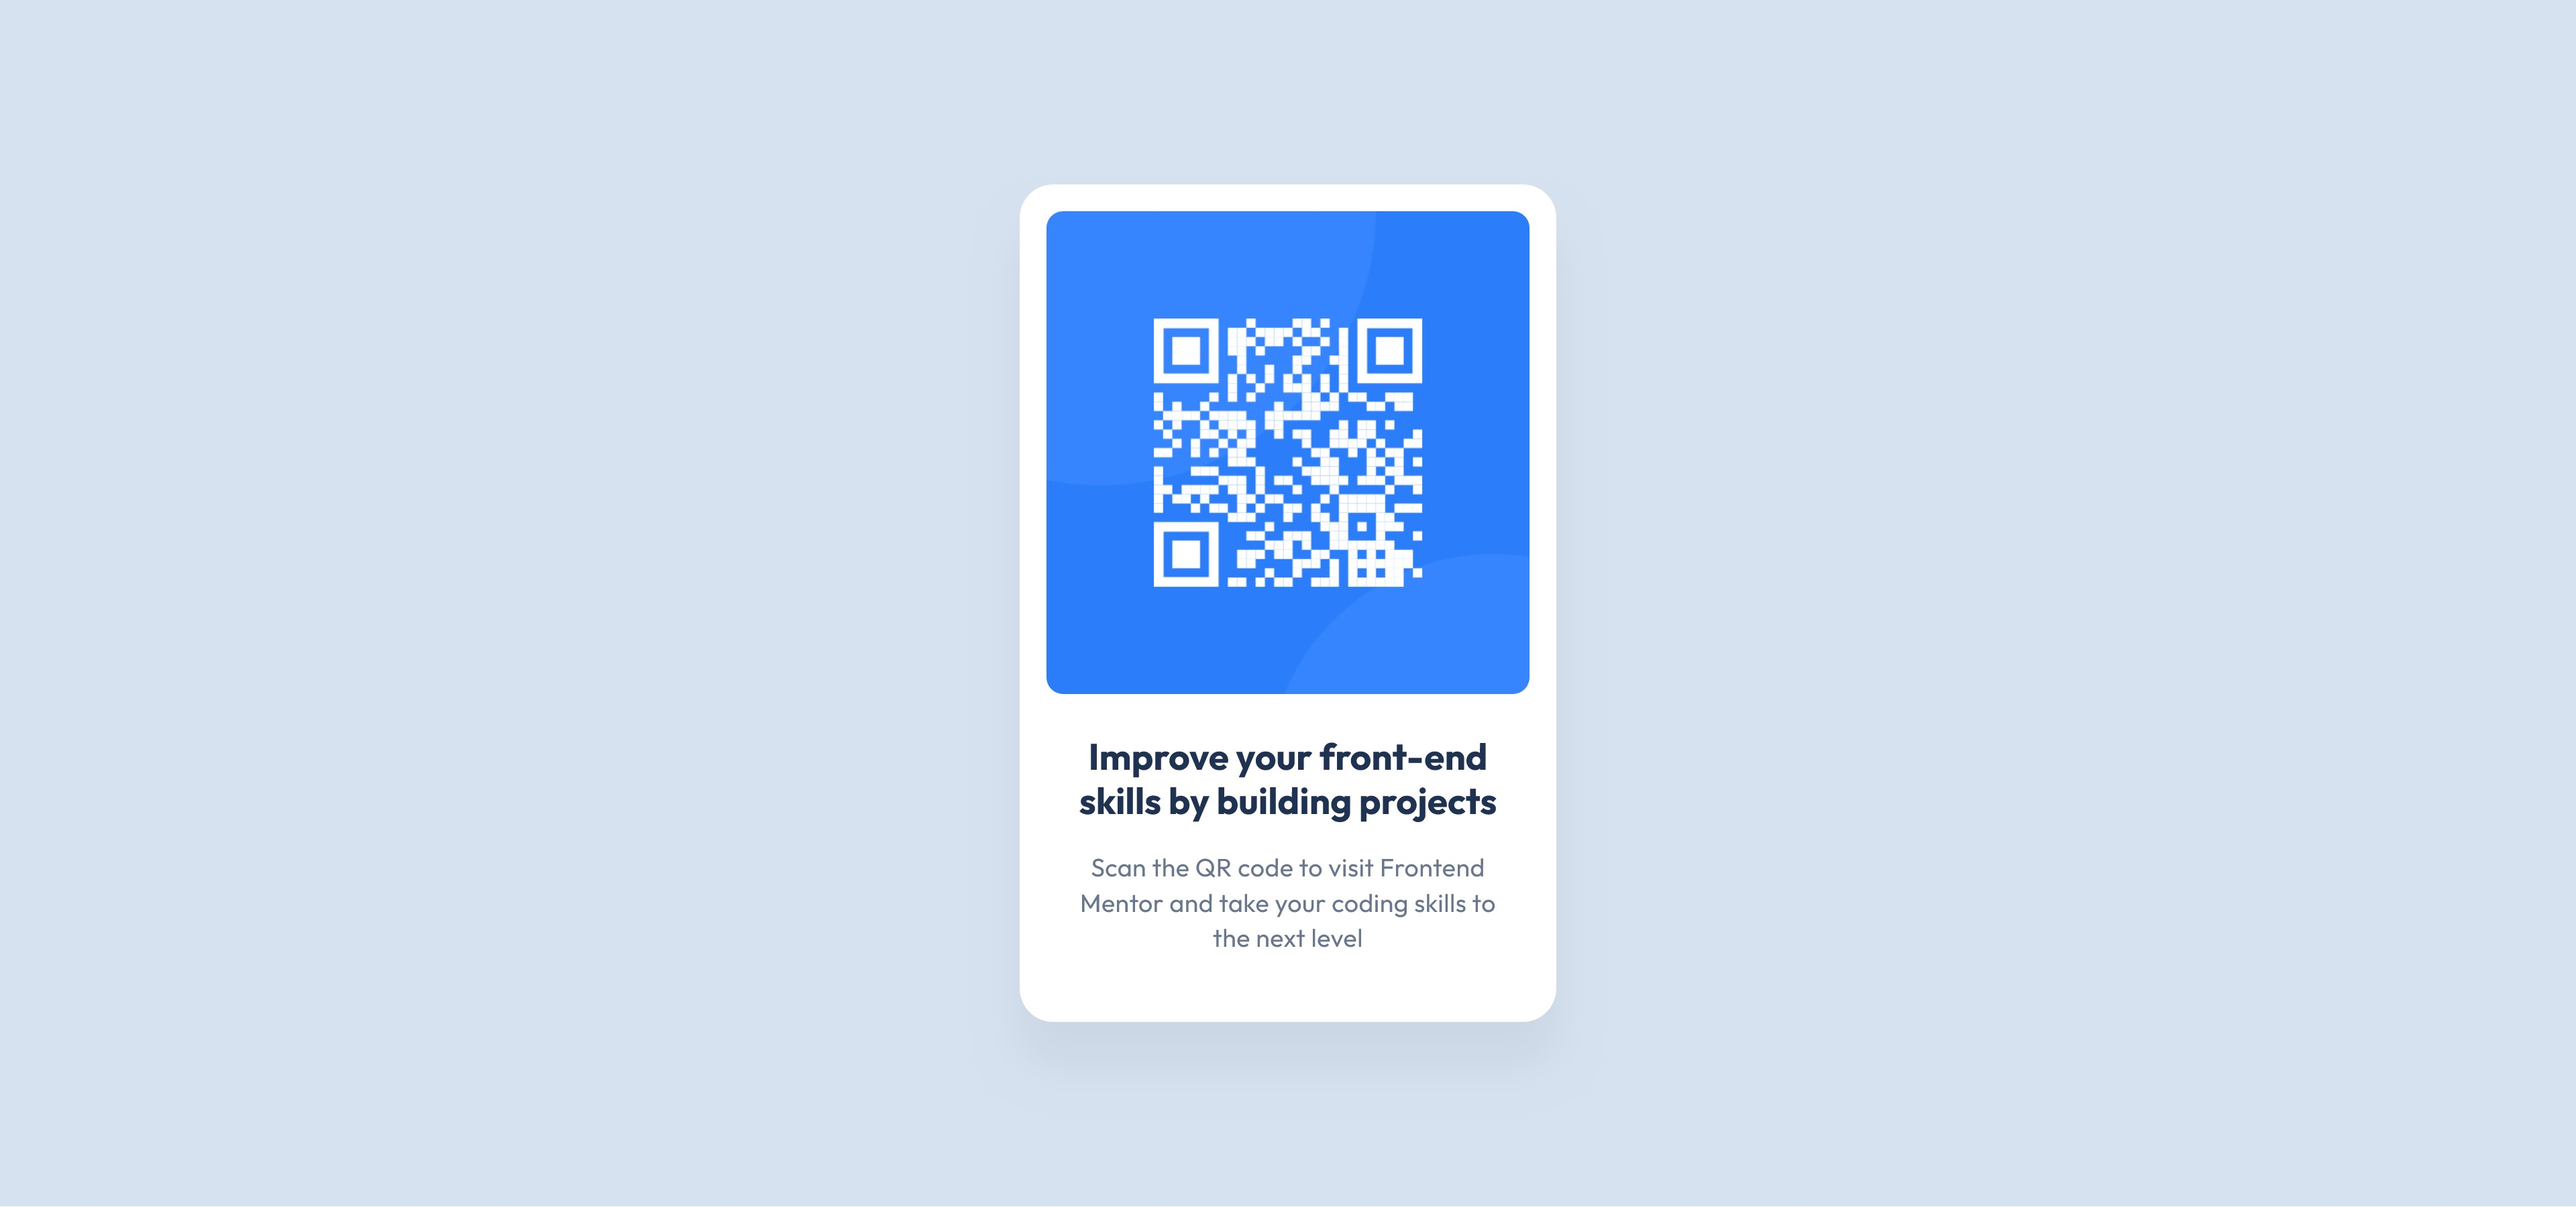
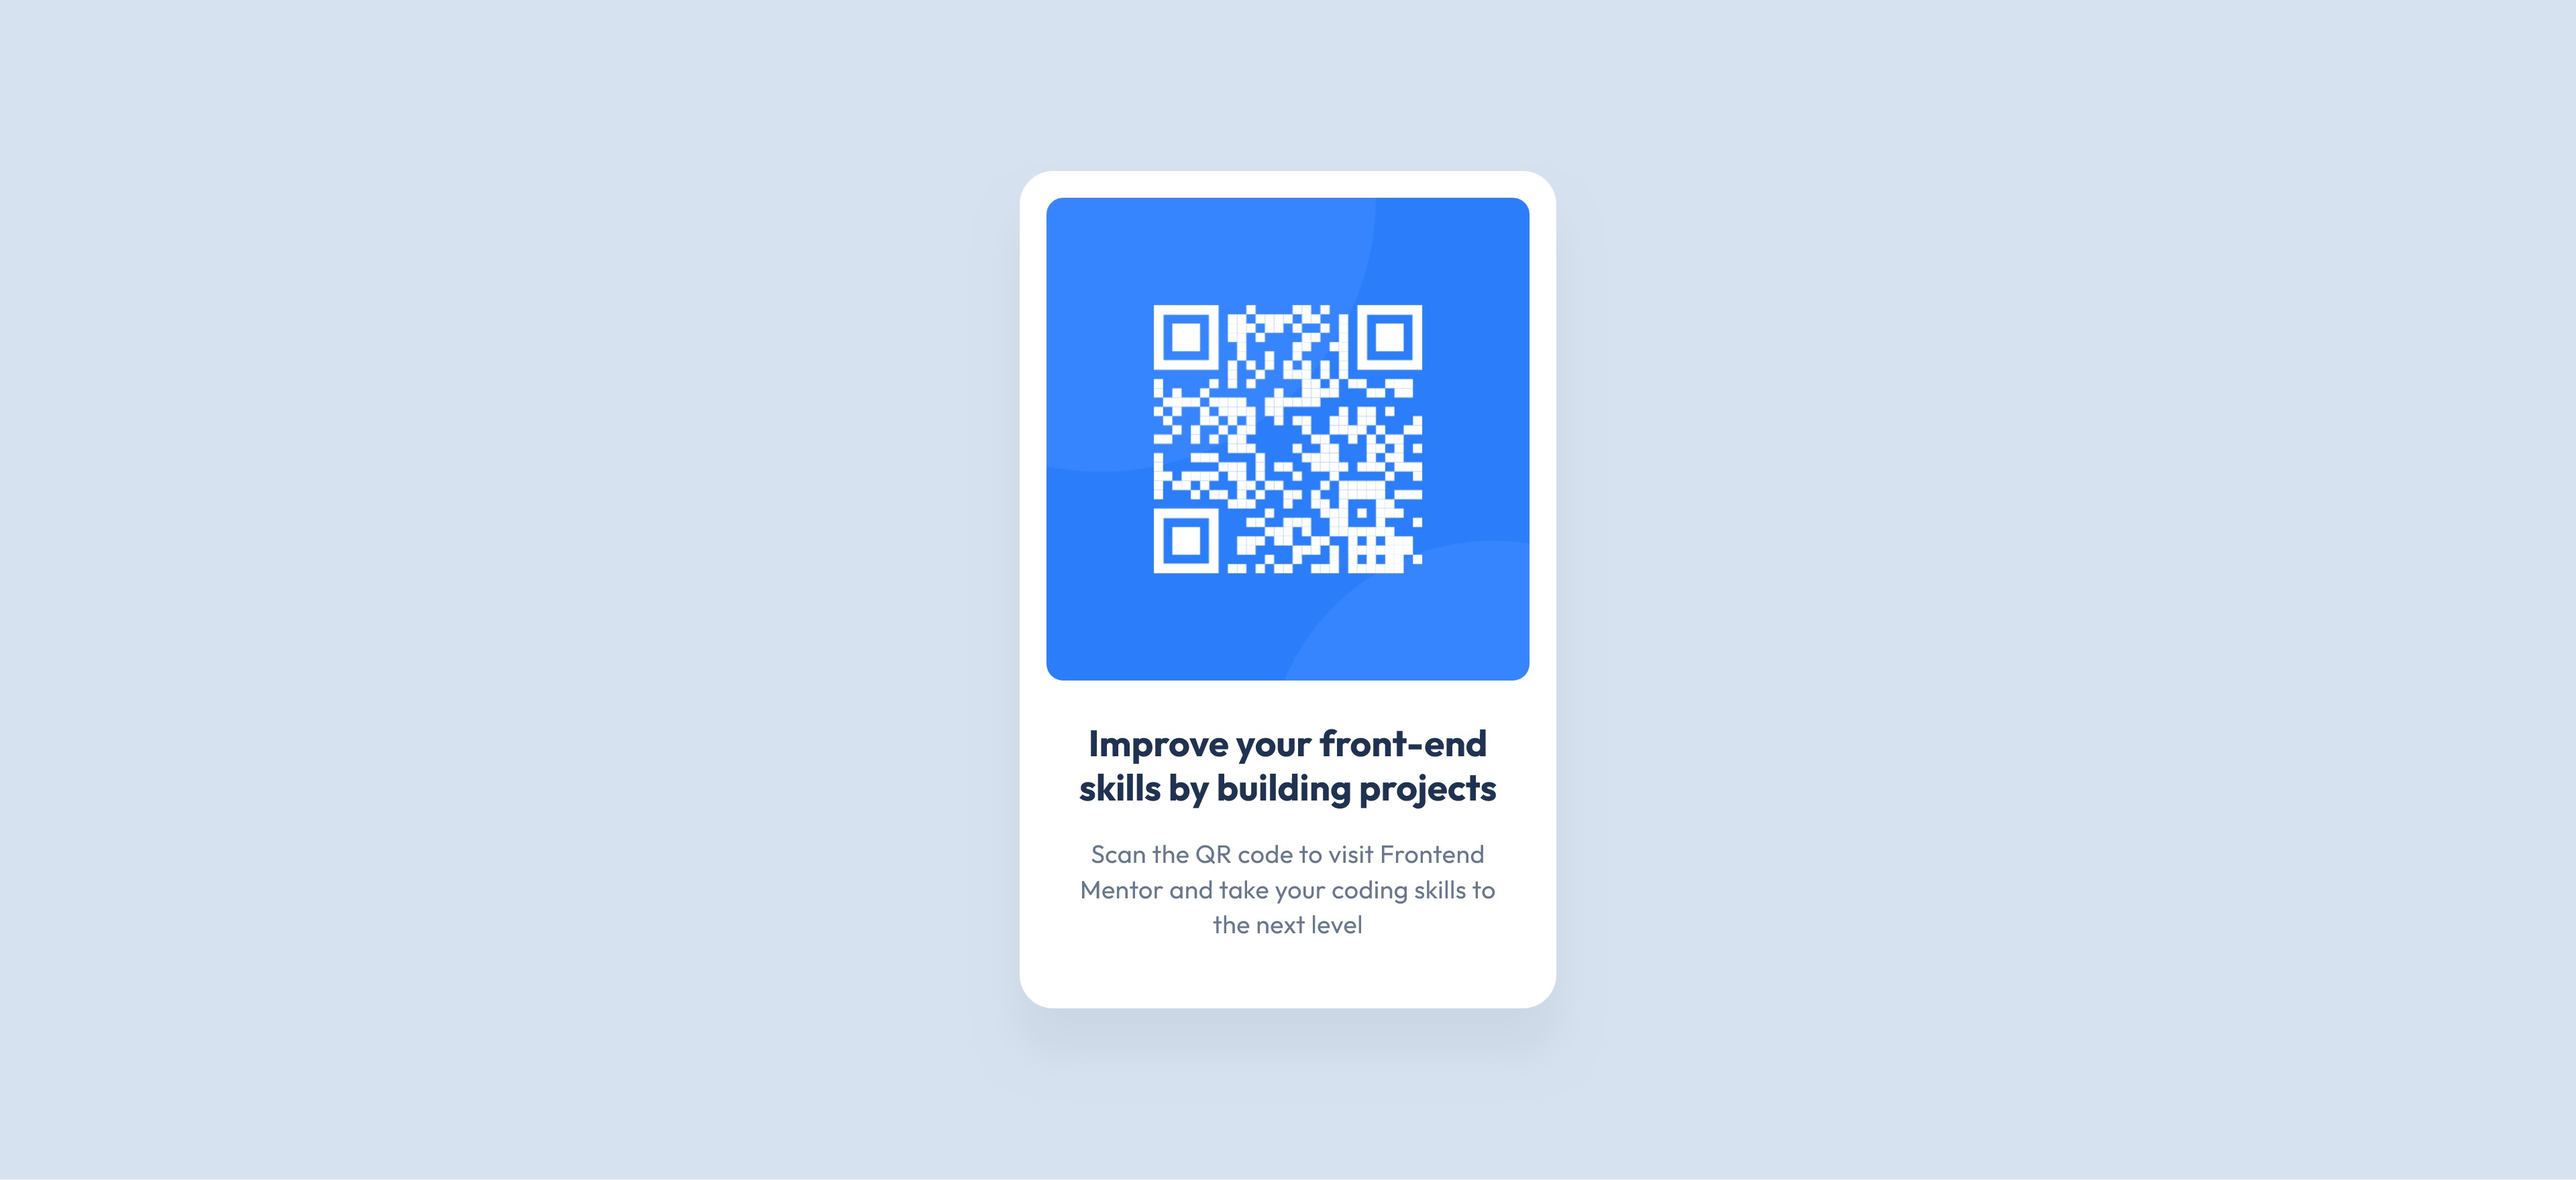
Initial commit

diff --git a/assets/styles/style.css b/assets/styles/style.css
@@ -1,3 +1,11 @@
+/* RESET */
+
+*{
+    box-sizing: border-box;
+    margin: 0;
+    text-align: center;
+}
+
 /* COLORS */
 
 :root{
@@ -26,7 +34,6 @@ p{
     letter-spacing: 0.2px;
     color: var(--Slate_500);
     font-size: 15px;
-    margin: 0;
 }
 
 body{
@@ -45,19 +52,21 @@ article{
     box-shadow: 0 25px 25px 0 rgba(0, 0, 0, 4.77%);
 }
 
-figure{
-    margin: 16px 16px 24px 16px;
-
-}
-
 img{
     display: block;
     max-width: 100%;
     border-radius: 10px;
 }
 
+figure{
+    padding: 16px 16px 40px 16px;
+
+}
+
 figcaption{
-    margin: 0 16px 40px 16px;
-    padding: 0 16px 0 16px;
-    text-align: center;
+    margin: 0 16px 0 16px;
+}
+
+h1{
+    margin: 24px 0 16px 0;
 }

diff --git a/index.html b/index.html
@@ -14,13 +14,14 @@
     <article>
 
       <figure>
-        <img src="assets/images/image-qr-code.png" alt="QR code" />
-      </figure>
 
-      <figcaption>
-        <h1> Improve your front-end skills by building projects</h1>
-        <p>Scan the QR code to visit Frontend Mentor and take your coding skills to the next level</p>
-      </figcaption>
+        <img src="assets/images/image-qr-code.png" alt="QR code" />
+        <figcaption>
+          <h1> Improve your front-end skills by building projects</h1>
+          <p>Scan the QR code to visit Frontend Mentor and take your coding skills to the next level</p>
+        </figcaption>
+
+      </figure>
 
     </article>
   </main>
